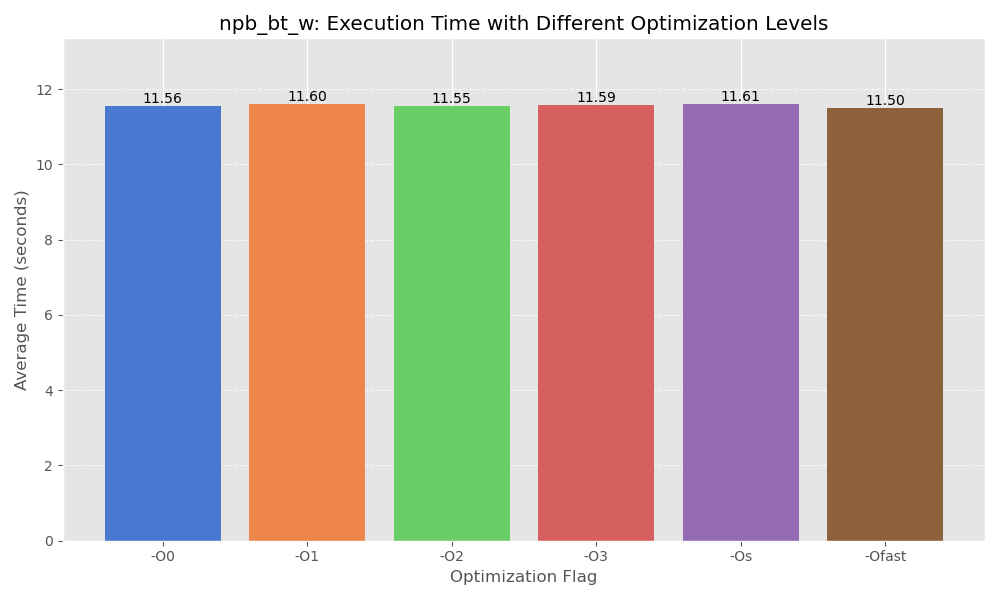
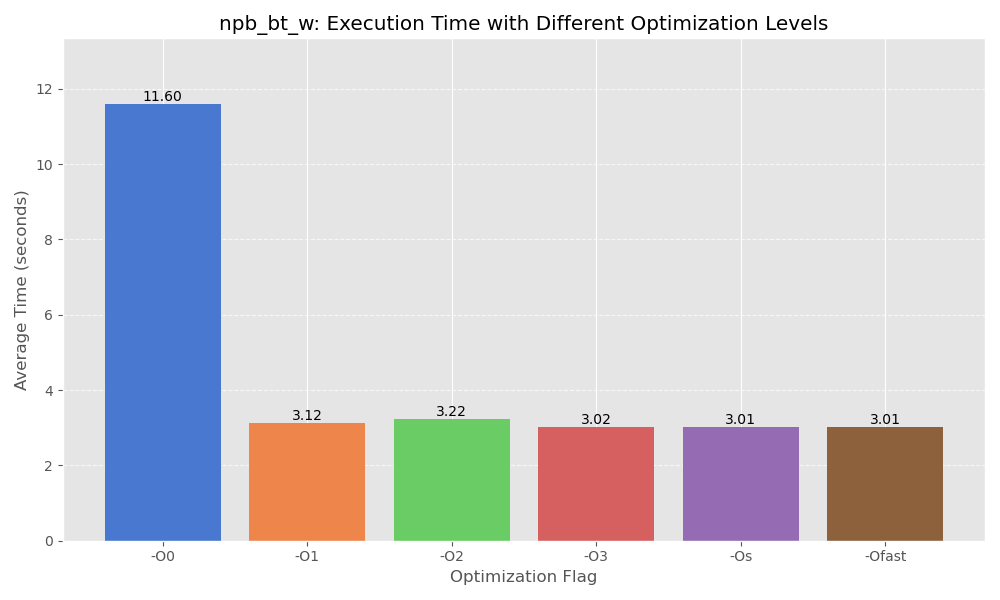
Update Cluster result_a

diff --git a/05/results_a/plot.py b/05/results_a/plot.py
@@ -73,7 +73,7 @@ def create_plots(df, output_prefix='optimization'):
         plt.grid(axis='y', linestyle='--', alpha=0.7)
         plt.tight_layout()
         
-        plt.savefig(f'{output_prefix}_{program}_local.png')
+        plt.savefig(f'{output_prefix}_{program}_cluster.png')
         plt.close()
     
     plt.figure(figsize=(14, 8))
@@ -90,9 +90,9 @@ def create_plots(df, output_prefix='optimization'):
     plt.legend(title='Optimization Flag')
     plt.grid(axis='y', linestyle='--', alpha=0.7)
     plt.tight_layout()
-    plt.savefig(f'{output_prefix}_summary_bars_local.png')
+    plt.savefig(f'{output_prefix}_summary_bars_cluster.png')
 
-def main(file_path='performance_results_local.csv'):
+def main(file_path='performance_results_cluster.csv'):
     df = load_data(file_path)
     create_plots(df)
     print("Optimization graphs have been generated.")

diff --git a/05/results_a/performance_results_cluster.md b/05/results_a/performance_results_cluster.md
@@ -337,7 +337,7 @@ ssca2 Benchmark O0
 
 | Parameters | Avg Time (s) | User CPU (s) | System CPU (s) | Memory (KB) | Std Dev (s) | Min Time (s) | Max Time (s) | Variance (s²) | Notes |
 |------------|--------------|--------------|----------------|-------------|-------------|-------------|-------------|--------------|-------|
-| `15` | 9.746667 | 9.650000000 | 0 | 8176 | 9.716667 | 1.000e-10 | 0.0736357 | 9.620000 | Target precision of 0.05 reached after 6 runs , Cluster execution, Cache cleared |
+| `15` | 9.738333 | 9.650000000 | 0 | 8140 | 9.708333 | 1.000e-10 | 0.0958152 | 9.590000 | Target precision of 0.05 reached after 6 runs , Cluster execution, Cache cleared |
 ## larger_samples/ssca2/build_O1/ssca2
 
 ssca2 Benchmark O1
@@ -350,7 +350,7 @@ ssca2 Benchmark O1
 
 | Parameters | Avg Time (s) | User CPU (s) | System CPU (s) | Memory (KB) | Std Dev (s) | Min Time (s) | Max Time (s) | Variance (s²) | Notes |
 |------------|--------------|--------------|----------------|-------------|-------------|-------------|-------------|--------------|-------|
-| `15` | 9.781667 | 9.770000000 | 0 | 8184 | 9.751667 | 0.0016667 | 0.0841460 | 9.600000 | Target precision of 0.05 reached after 6 runs , Cluster execution, Cache cleared |
+| `15` | 5.805000 | 5.740000000 | 0 | 8172 | 5.781667 | 1.000e-10 | 0.0415331 | 5.770000 | Target precision of 0.05 reached after 6 runs , Cluster execution, Cache cleared |
 ## larger_samples/ssca2/build_O2/ssca2
 
 ssca2 Benchmark O2
@@ -363,7 +363,7 @@ ssca2 Benchmark O2
 
 | Parameters | Avg Time (s) | User CPU (s) | System CPU (s) | Memory (KB) | Std Dev (s) | Min Time (s) | Max Time (s) | Variance (s²) | Notes |
 |------------|--------------|--------------|----------------|-------------|-------------|-------------|-------------|--------------|-------|
-| `15` | 9.795000 | 9.800000000 | 0 | 8104 | 9.765000 | 1.000e-10 | 0.0871302 | 9.610000 | Target precision of 0.05 reached after 6 runs , Cluster execution, Cache cleared |
+| `15` | 4.903333 | 4.880000000 | 0 | 8160 | 4.886667 | 1.000e-10 | 0.0430762 | 4.810000 | Target precision of 0.05 reached after 6 runs , Cluster execution, Cache cleared |
 ## larger_samples/ssca2/build_O3/ssca2
 
 ssca2 Benchmark O3
@@ -376,7 +376,7 @@ ssca2 Benchmark O3
 
 | Parameters | Avg Time (s) | User CPU (s) | System CPU (s) | Memory (KB) | Std Dev (s) | Min Time (s) | Max Time (s) | Variance (s²) | Notes |
 |------------|--------------|--------------|----------------|-------------|-------------|-------------|-------------|--------------|-------|
-| `15` | 9.678333 | 9.790000000 | 0 | 8216 | 9.650000 | 1.000e-10 | 0.0935266 | 9.600000 | Target precision of 0.05 reached after 6 runs , Cluster execution, Cache cleared |
+| `15` | 4.778333 | 4.800000000 | 0 | 8128 | 4.760000 | 1.000e-10 | 0.0466964 | 4.700000 | Target precision of 0.05 reached after 6 runs , Cluster execution, Cache cleared |
 ## larger_samples/ssca2/build_Os/ssca2
 
 ssca2 Benchmark Os
@@ -389,7 +389,7 @@ ssca2 Benchmark Os
 
 | Parameters | Avg Time (s) | User CPU (s) | System CPU (s) | Memory (KB) | Std Dev (s) | Min Time (s) | Max Time (s) | Variance (s²) | Notes |
 |------------|--------------|--------------|----------------|-------------|-------------|-------------|-------------|--------------|-------|
-| `15` | 9.783333 | 9.760000000 | 0 | 8196 | 9.748333 | 0.0016667 | 0.0756454 | 9.630000 | Target precision of 0.05 reached after 6 runs , Cluster execution, Cache cleared |
+| `15` | 6.243333 | 6.100000000 | 0 | 8140 | 6.220000 | 1.000e-10 | 0.0573488 | 6.120000 | Target precision of 0.05 reached after 6 runs , Cluster execution, Cache cleared |
 ## larger_samples/ssca2/build_Ofast/ssca2
 
 ssca2 Benchmark Ofast
@@ -402,7 +402,7 @@ ssca2 Benchmark Ofast
 
 | Parameters | Avg Time (s) | User CPU (s) | System CPU (s) | Memory (KB) | Std Dev (s) | Min Time (s) | Max Time (s) | Variance (s²) | Notes |
 |------------|--------------|--------------|----------------|-------------|-------------|-------------|-------------|--------------|-------|
-| `15` | 9.791667 | 9.780000000 | 0 | 8072 | 9.763333 | 1.000e-10 | 0.0614862 | 9.660000 | Target precision of 0.05 reached after 6 runs , Cluster execution, Cache cleared |
+| `15` | 4.705000 | 4.630000000 | 0 | 8152 | 4.686667 | 1.000e-10 | 0.0438748 | 4.640000 | Target precision of 0.05 reached after 6 runs , Cluster execution, Cache cleared |
 ## larger_samples/npb_bt/build/npb_bt_w
 
 NPB BT Benchmark O0
@@ -415,7 +415,7 @@ NPB BT Benchmark O0
 
 | Parameters | Avg Time (s) | User CPU (s) | System CPU (s) | Memory (KB) | Std Dev (s) | Min Time (s) | Max Time (s) | Variance (s²) | Notes |
 |------------|--------------|--------------|----------------|-------------|-------------|-------------|-------------|--------------|-------|
-| `` | 11.556667 | 11.540000000 | 0 | 4608 | 11.516667 | 1.000e-10 | 0.0729536 | 11.410000 | Target precision of 0.05 reached after 6 runs , Cluster execution, Cache cleared |
+| `` | 11.596667 | 11.540000000 | 0 | 4500 | 11.563333 | 1.000e-10 | 0.0749815 | 11.490000 | Target precision of 0.05 reached after 6 runs , Cluster execution, Cache cleared |
 ## larger_samples/npb_bt/build/npb_bt_w
 
 NPB BT Benchmark O1
@@ -428,7 +428,7 @@ NPB BT Benchmark O1
 
 | Parameters | Avg Time (s) | User CPU (s) | System CPU (s) | Memory (KB) | Std Dev (s) | Min Time (s) | Max Time (s) | Variance (s²) | Notes |
 |------------|--------------|--------------|----------------|-------------|-------------|-------------|-------------|--------------|-------|
-| `` | 11.595000 | 11.650000000 | 0 | 4608 | 11.558333 | 1.000e-10 | 0.136717 | 11.370000 | Target precision of 0.05 reached after 6 runs , Cluster execution, Cache cleared |
+| `` | 3.116667 | 3.120000000 | 0 | 4604 | 3.105000 | 1.000e-10 | 0.0124722 | 3.100000 | Target precision of 0.05 reached after 6 runs , Cluster execution, Cache cleared |
 ## larger_samples/npb_bt/build/npb_bt_w
 
 NPB BT Benchmark O2
@@ -441,7 +441,7 @@ NPB BT Benchmark O2
 
 | Parameters | Avg Time (s) | User CPU (s) | System CPU (s) | Memory (KB) | Std Dev (s) | Min Time (s) | Max Time (s) | Variance (s²) | Notes |
 |------------|--------------|--------------|----------------|-------------|-------------|-------------|-------------|--------------|-------|
-| `` | 11.551667 | 11.590000000 | 0 | 4680 | 11.516667 | 1.000e-10 | 0.0456131 | 11.490000 | Target precision of 0.05 reached after 6 runs , Cluster execution, Cache cleared |
+| `` | 3.223333 | 3.230000000 | 0 | 4540 | 3.210000 | 1.000e-10 | 0.0110554 | 3.210000 | Target precision of 0.05 reached after 6 runs , Cluster execution, Cache cleared |
 ## larger_samples/npb_bt/build/npb_bt_w
 
 NPB BT Benchmark O3
@@ -454,7 +454,7 @@ NPB BT Benchmark O3
 
 | Parameters | Avg Time (s) | User CPU (s) | System CPU (s) | Memory (KB) | Std Dev (s) | Min Time (s) | Max Time (s) | Variance (s²) | Notes |
 |------------|--------------|--------------|----------------|-------------|-------------|-------------|-------------|--------------|-------|
-| `` | 11.588333 | 11.510000000 | 0 | 4504 | 11.555000 | 1.000e-10 | 0.103669 | 11.470000 | Target precision of 0.05 reached after 6 runs , Cluster execution, Cache cleared |
+| `` | 3.021667 | 3.000000000 | 0 | 4396 | 3.006667 | 1.000e-10 | 0.0037267 | 3.020000 | Target precision of 0.05 reached after 6 runs , Cluster execution, Cache cleared |
 ## larger_samples/npb_bt/build/npb_bt_w
 
 NPB BT Benchmark Os
@@ -467,7 +467,7 @@ NPB BT Benchmark Os
 
 | Parameters | Avg Time (s) | User CPU (s) | System CPU (s) | Memory (KB) | Std Dev (s) | Min Time (s) | Max Time (s) | Variance (s²) | Notes |
 |------------|--------------|--------------|----------------|-------------|-------------|-------------|-------------|--------------|-------|
-| `` | 11.610000 | 11.610000000 | 0 | 4528 | 11.576667 | 1.000e-10 | 0.0637704 | 11.540000 | Target precision of 0.05 reached after 6 runs , Cluster execution, Cache cleared |
+| `` | 3.013333 | 2.990000000 | 0 | 4380 | 3.000000 | 1.000e-10 | 0.0094280 | 3.000000 | Target precision of 0.05 reached after 6 runs , Cluster execution, Cache cleared |
 ## larger_samples/npb_bt/build/npb_bt_w
 
 NPB BT Benchmark Ofast
@@ -480,4 +480,4 @@ NPB BT Benchmark Ofast
 
 | Parameters | Avg Time (s) | User CPU (s) | System CPU (s) | Memory (KB) | Std Dev (s) | Min Time (s) | Max Time (s) | Variance (s²) | Notes |
 |------------|--------------|--------------|----------------|-------------|-------------|-------------|-------------|--------------|-------|
-| `` | 11.503333 | 11.380000000 | 0 | 4528 | 11.468333 | 1.000e-10 | 0.0869227 | 11.390000 | Target precision of 0.05 reached after 6 runs , Cluster execution, Cache cleared |
+| `` | 3.008333 | 3.010000000 | 0 | 4488 | 2.995000 | 1.000e-10 | 0.0089752 | 3.000000 | Target precision of 0.05 reached after 6 runs , Cluster execution, Cache cleared |
